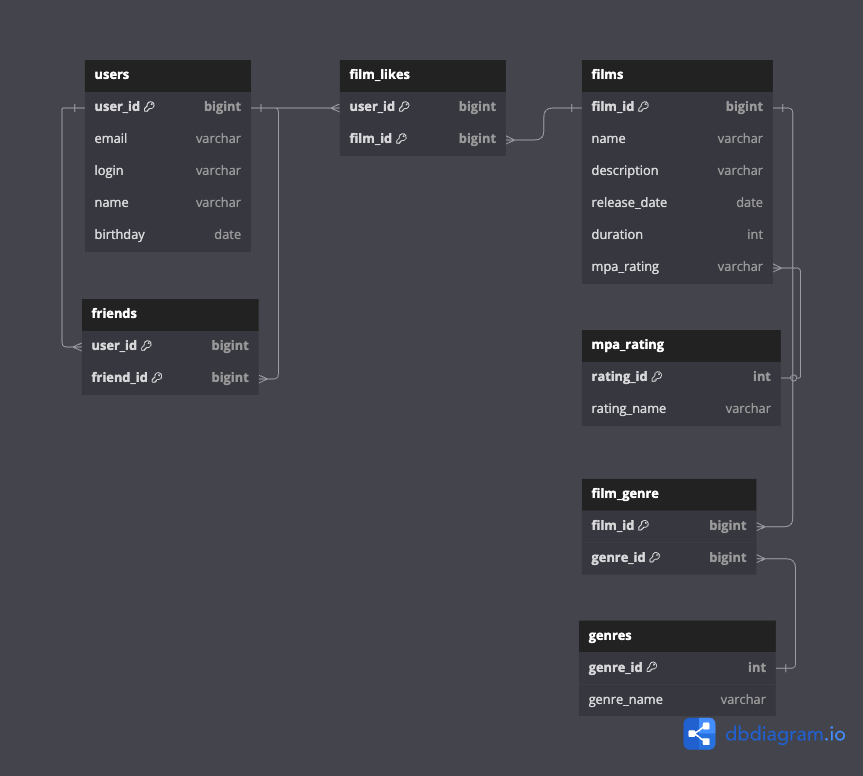
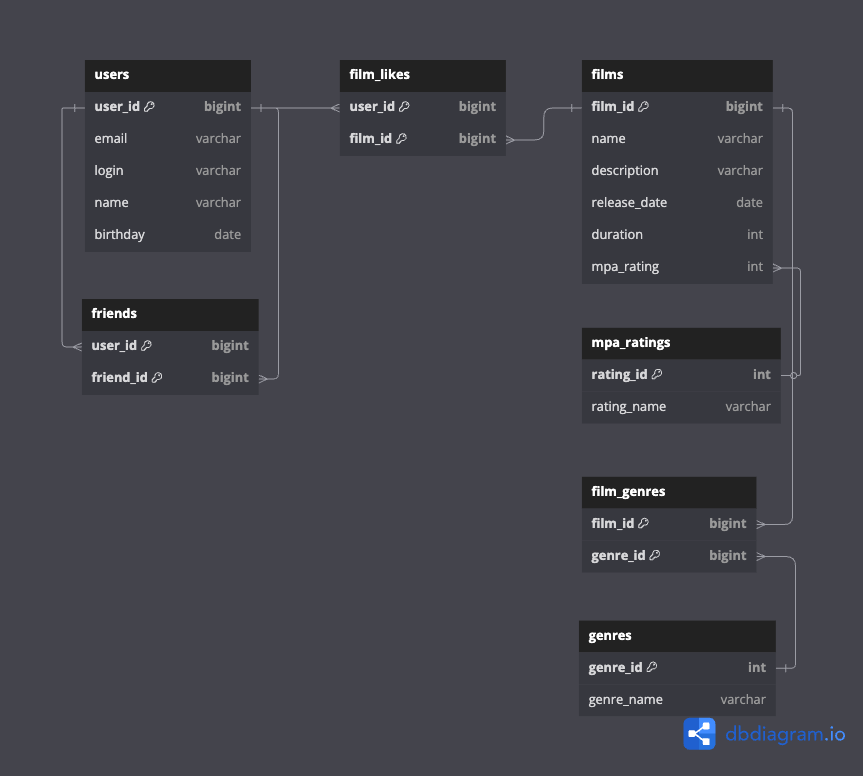
[add-db-scheme] scheme fix

diff --git a/README.md b/README.md
@@ -12,18 +12,18 @@ WHERE user_id = 1;
 
 Получить топ-5 самых популярных фильмов (по количеству лайков):
 ```sql
-SELECT films.name, COUNT(film_likes.user_id) as likes
-FROM films
-LEFT JOIN film_likes ON films.film_id = film_likes.film_id
-GROUP BY films.id
+SELECT f.name, COUNT(fl.user_id) as likes
+FROM films f
+LEFT JOIN film_likes fl ON f.film_id = fl.film_id
+GROUP BY f.id
 ORDER BY likes DESC
 LIMIT 5;
 ```
 
 Получить все жанры фильма:
 ```sql
-SELECT genres.name
-FROM film_genre
-JOIN genres ON film_genre.genre_id = genres.id
-WHERE film_genre.film_id = 10;
+SELECT g.name
+FROM film_genres f
+JOIN genres g ON f.genre_id = g.id
+WHERE f.film_id = 10;
 ```
